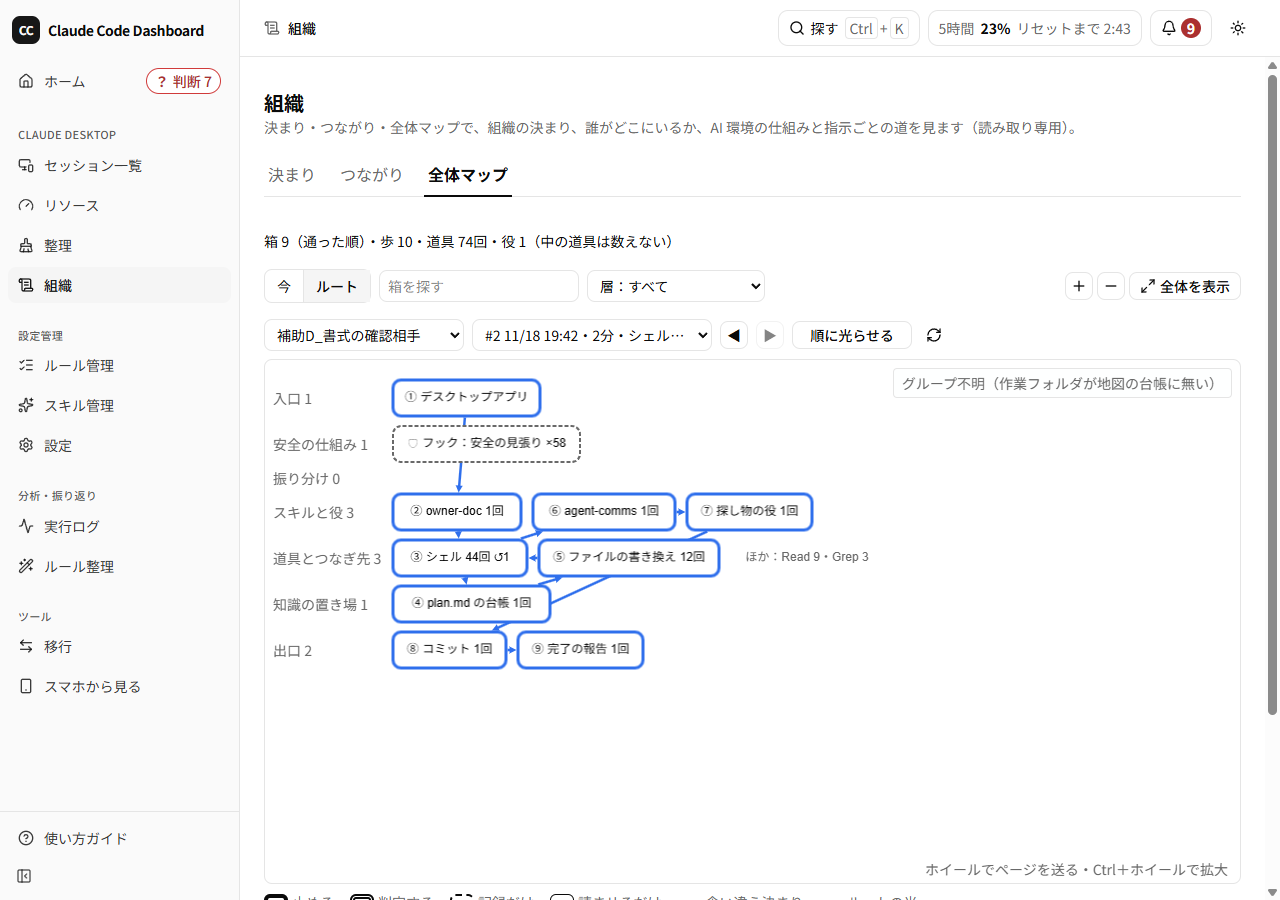
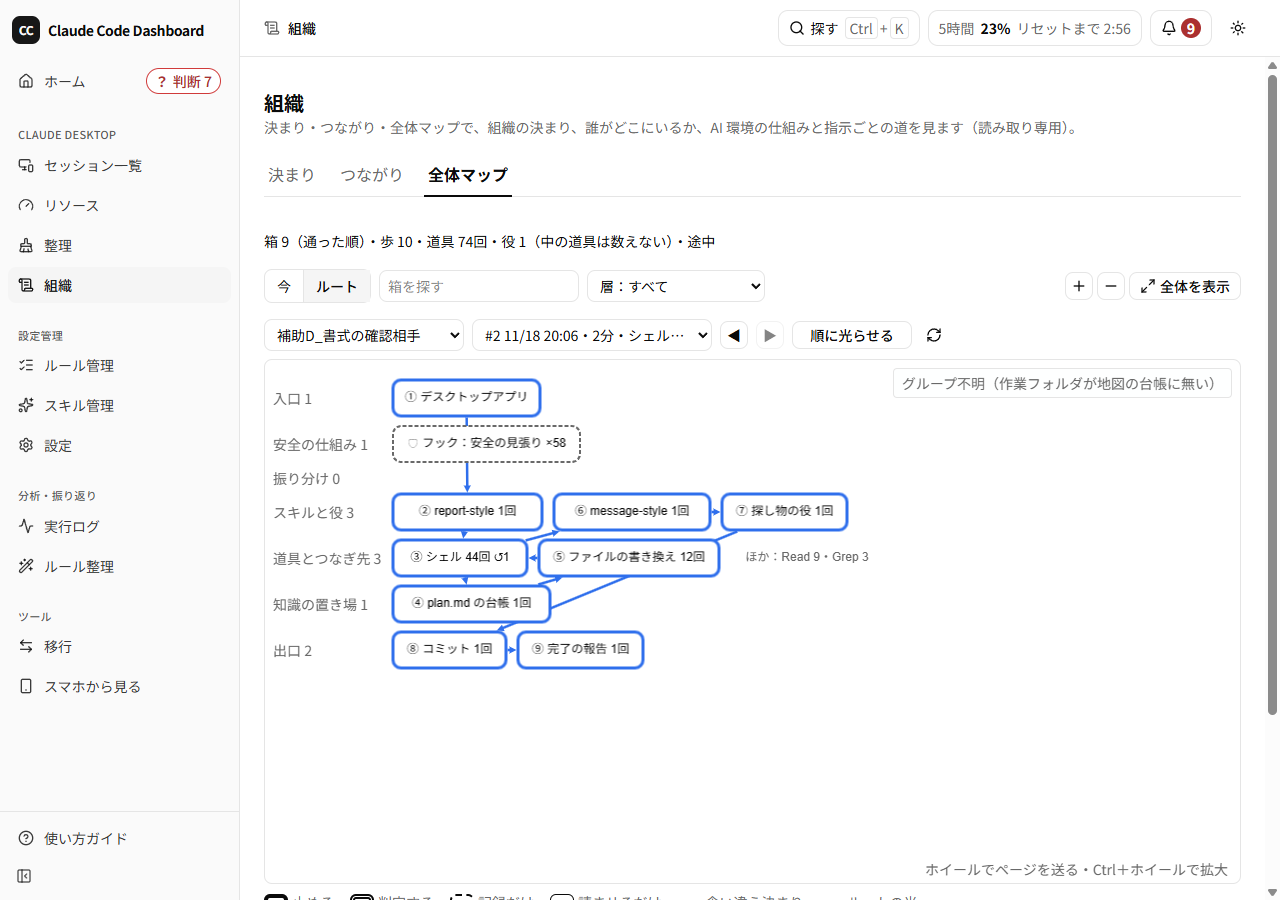
⑲ 段1：完了前の相談役の指摘を直す（作り直した後の印の当て直し・読み取りの失敗の表示・読んでいます n MB・つながり無しで一覧を開く・伸ばした地図ではページを送る・再生中のキー・伏せた id の重なり・見本の書き先の守り・一般の名前に）（指示69）

diff --git a/src/components/orgRules/EnvMapView.tsx b/src/components/orgRules/EnvMapView.tsx
@@ -173,7 +173,12 @@ function EnvMapBody({ res, map, mode, setMode, session, setSession, reload }: Bo
   const reduced = useReducedMotion()
   const sessionItem = res.sessions.find((s) => s.id === session) ?? null
 
-  const choose = (i: number) => setPick({ session, index: i })
+  const choose = (i: number) => {
+    setPick({ session, index: i })
+    setPlay(null)
+  }
+  const [openLayerId, setOpenLayerId] = useState<string | null>(null)
+  const openLayer = useCallback((layer: string) => setOpenLayerId(layer), [])
   const choosePrev = () => index > 1 && choose(index - 1)
   const chooseNext = () => index < instructions.length && choose(index + 1)
 
@@ -191,6 +196,8 @@ function EnvMapBody({ res, map, mode, setMode, session, setSession, reload }: Bo
   useEffect(() => {
     if (play === null) return
     const onKey = (e: KeyboardEvent) => {
+      const t = e.target as HTMLElement | null
+      if (t && (t.tagName === "INPUT" || t.tagName === "SELECT" || t.tagName === "TEXTAREA")) return
       if (e.key === "Escape") setPlay(null)
       else if (e.key === "ArrowRight") setPlay((p) => (p === null ? p : Math.min(visits.length, p + 1)))
       else if (e.key === "ArrowLeft") setPlay((p) => (p === null ? p : Math.max(1, p - 1)))
@@ -238,7 +245,7 @@ function EnvMapBody({ res, map, mode, setMode, session, setSession, reload }: Bo
           </button>
         )}
         {withHint ? `。${hint}` : ""}
-        {staleNote && <span className="ml-2 text-muted-foreground">作り直しは AI 環境の整備の担当が行います</span>}
+        {staleNote && <span className="ml-2 text-muted-foreground">地図は、地図を作る仕組みが作り直します</span>}
       </span>
     )
   }
@@ -323,16 +330,23 @@ function EnvMapBody({ res, map, mode, setMode, session, setSession, reload }: Bo
         </div>
       )}
       {mode === "route" && route.isLoading && (
-        <p className="py-2 text-sm text-muted-foreground">読んでいます{sessionItem ? `（${sessionItem.title}）` : ""}...</p>
+        <p className="py-2 text-sm text-muted-foreground">読んでいます{sessionItem ? `（${Math.max(0.1, Math.round(sessionItem.bytes / 1e5) / 10)} MB）` : ""}...</p>
       )}
       {mode === "route" && route.error && (
         <Alert variant="destructive">
           <AlertDescription>{(route.error as Error).message}</AlertDescription>
         </Alert>
       )}
-      {mode === "route" && route.data && !ins && <p className="py-2 text-sm">このセッションには、まだ指示がありません。</p>}
+      {mode === "route" && route.data?.problem && (
+        <Alert variant="destructive">
+          <AlertDescription>{route.data.problem}</AlertDescription>
+        </Alert>
+      )}
+      {mode === "route" && route.data && !route.data.problem && !ins && <p className="py-2 text-sm">このセッションには、まだ指示がありません。</p>}
       <MapCanvas
         note={mode === "route" && ins ? <EmptyNote ins={ins} group={route.data?.group ?? null} nodes={nodes} /> : null}
+        measureKey={`${route.isLoading}|${Boolean(route.error)}|${route.data?.problem ?? ""}|${Boolean(route.data && !ins)}`}
+        onIsolated={openLayer}
         map={map}
         mode={mode}
         ins={mode === "route" ? ins : null}
@@ -351,6 +365,7 @@ function EnvMapBody({ res, map, mode, setMode, session, setSession, reload }: Bo
         setSelected={setSelected}
         ins={mode === "route" ? ins : null}
         reload={reload}
+        openLayerId={openLayerId}
       />
     </div>
   )
@@ -506,6 +521,10 @@ function MapControls({ mode, setMode, canRoute, map, layerFilter, setLayerFilter
 interface CanvasProps {
   /** 地図の右上に重ねる文(空の状態など。縦の予算を使わない) */
   note: React.ReactNode
+  /** 地図の上の行が出入りしたときに測り直すための印 */
+  measureKey: string
+  /** 「つながり無し n」を押したとき(層の id) */
+  onIsolated: (layer: string) => void
   map: EnvMapData
   mode: Mode
   ins: RouteInstruction | null
@@ -544,7 +563,7 @@ function routeView(map: EnvMapData, ins: RouteInstruction) {
   return { data, visits, labels }
 }
 
-function MapCanvas({ note, map, mode, ins, selected, setSelected, layerFilter, play, reduced }: CanvasProps) {
+function MapCanvas({ note, measureKey, onIsolated, map, mode, ins, selected, setSelected, layerFilter, play, reduced }: CanvasProps) {
   const wrapRef = useRef<HTMLDivElement>(null)
   const boxRef = useRef<HTMLDivElement>(null)
   const cyRef = useRef<Core | null>(null)
@@ -552,7 +571,8 @@ function MapCanvas({ note, map, mode, ins, selected, setSelected, layerFilter, p
   const [height, setHeight] = useState(420)
   const [width, setWidth] = useState(720)
   const [bands, setBands] = useState<{ label: string; top: number; h: number; count: number }[]>([])
-  const [ready, setReady] = useState(false)
+  /** cytoscape を作り直した回数。選択と再生の印は、作り直すたびに当て直す(相談役 重1) */
+  const [cyVer, setCyVer] = useState(0)
   const [hover, setHover] = useState<{ label: string; x: number; y: number } | null>(null)
 
   // 地図の高さ:画面の下端−16px まで(縦の予算。A11)。ルートの詰めた表示が 1.0倍で入らなければ伸ばす(ページで送る。低A)。
@@ -573,7 +593,7 @@ function MapCanvas({ note, map, mode, ins, selected, setSelected, layerFilter, p
       ro.disconnect()
       window.removeEventListener("resize", measure)
     }
-  }, [mode, ins])
+  }, [mode, ins, measureKey])
 
   // 色はテーマから。テーマを替えたら読み直す(A19。next-themes は html の class を替える)
   const themeKey = useSyncExternalStore(subscribeTheme, themeSnapshot, () => null)
@@ -596,7 +616,8 @@ function MapCanvas({ note, map, mode, ins, selected, setSelected, layerFilter, p
     if (view.kind === "route") return true
     const byWidth = fitView(view.layout, width, Number.MAX_SAFE_INTEGER, MAP_PADDING).zoom
     const both = fitView(view.layout, width, height, MAP_PADDING).zoom
-    return byWidth >= 1 && both >= 0.85
+    // 幅は 0.97 まで許す(縦のスクロールバーの出入りで幅が少し減っても、判定が行き来しない)
+    return byWidth >= 0.97 && both >= 0.85
   }, [view, width, height])
   const mapHeight = atOne ? Math.max(height, view.layout.height + MAP_PADDING * 2) : height
 
@@ -688,17 +709,21 @@ function MapCanvas({ note, map, mode, ins, selected, setSelected, layerFilter, p
       cy.on("tap", "node", (e) => {
         const id = (e.target as { id(): string }).id()
         if (id === OTHERS_ID) return
+        if (id.startsWith(ISOLATED_PREFIX)) {
+          onIsolated(id.slice(ISOLATED_PREFIX.length))
+          return
+        }
         setSelected(id)
       })
       cy.on("tap", (e) => {
         if (e.target === cy) setSelected(null)
       })
-      setReady(true)
+      setCyVer((v) => v + 1)
     })
     return () => {
       alive = false
     }
-  }, [view, colors, map.edges, setSelected, width, mapHeight, atOne])
+  }, [view, colors, map.edges, setSelected, onIsolated, width, mapHeight, atOne])
 
   useEffect(
     () => () => {
@@ -711,7 +736,7 @@ function MapCanvas({ note, map, mode, ins, selected, setSelected, layerFilter, p
   // 選んだ箱:近傍以外の線を消し、近傍以外の箱を薄く(0.12)、1.0倍で真ん中に寄せる(A2・A21)
   useEffect(() => {
     const cy = cyRef.current
-    if (!cy || !ready || cy.destroyed()) return
+    if (!cy || cyVer === 0 || cy.destroyed()) return
     cy.batch(() => {
       cy.elements().removeClass("faded").removeClass("hidden").removeClass("picked")
       if (!selected) return
@@ -723,6 +748,10 @@ function MapCanvas({ note, map, mode, ins, selected, setSelected, layerFilter, p
       target.addClass("picked")
     })
     const target = cy.getElementById(selected ?? "")
+    if (selected && target && target.length > 0 && atOne && cy.zoom() >= 1) {
+      scrollToMapY(boxRef.current, target.position().y * cy.zoom() + cy.pan().y)
+      return
+    }
     if (selected && target && target.length > 0) {
       const p = target.position()
       const z = Math.max(1, cy.zoom())
@@ -732,12 +761,12 @@ function MapCanvas({ note, map, mode, ins, selected, setSelected, layerFilter, p
         cy.pan(pan)
       } else cy.animate({ zoom: z, pan, duration: 250 })
     }
-  }, [selected, ready, reduced, view])
+  }, [selected, cyVer, reduced, view, atOne])
 
   // 再生の光(初めて通った順)
   useEffect(() => {
     const cy = cyRef.current
-    if (!cy || !ready || cy.destroyed() || view.kind !== "route" || !view.ins) return
+    if (!cy || cyVer === 0 || cy.destroyed() || view.kind !== "route" || !view.ins) return
     cy.batch(() => {
       cy.nodes().removeClass("current").removeClass("dim")
       if (play === null) return
@@ -749,7 +778,7 @@ function MapCanvas({ note, map, mode, ins, selected, setSelected, layerFilter, p
         else if (i + 1 > play) el.addClass("dim")
       })
     })
-  }, [play, ready, view])
+  }, [play, cyVer, view])
 
   // 拡大:Ctrl＋ホイール(passive:false で画面全体の拡大より先に受ける。軽13)・＋／− キー・ボタン
   useEffect(() => {
@@ -820,6 +849,18 @@ function MapCanvas({ note, map, mode, ins, selected, setSelected, layerFilter, p
       <p className="pointer-events-none absolute bottom-1 right-2 rounded bg-background/85 px-1 text-sm text-muted-foreground">ホイールでページを送る・Ctrl＋ホイールで拡大</p>
     </div>
   )
+}
+
+/** 地図の中の y(画面の px)が見える所まで、ページ(いちばん近い縦にスクロールする親)を送る */
+function scrollToMapY(box: HTMLElement | null, y: number): void {
+  if (!box) return
+  let el: HTMLElement | null = box.parentElement
+  while (el && !/(auto|scroll)/.test(getComputedStyle(el).overflowY)) el = el.parentElement
+  const scroller: HTMLElement = el ?? document.scrollingElement as HTMLElement
+  const r = box.getBoundingClientRect()
+  const view = el ? el.getBoundingClientRect() : { top: 0, bottom: window.innerHeight }
+  const abs = r.top + y
+  if (abs < view.top + 40 || abs > view.bottom - 40) scroller.scrollBy({ top: abs - (view.top + view.bottom) / 2 })
 }
 
 function subscribeTheme(cb: () => void): () => void {
@@ -908,10 +949,18 @@ interface PanelProps {
   setSelected: (id: string | null) => void
   ins: RouteInstruction | null
   reload: () => void
+  /** 「つながり無し n」を押したときに開く層 */
+  openLayerId: string | null
 }
 
-function DetailPanel({ map, nodes, layerLabel, selected, setSelected, ins, reload }: PanelProps) {
+function DetailPanel({ map, nodes, layerLabel, selected, setSelected, ins, reload, openLayerId }: PanelProps) {
   const [allSteps, setAllSteps] = useState(false)
+  const listRef = useRef<HTMLDetailsElement>(null)
+  useEffect(() => {
+    if (!openLayerId || !listRef.current) return
+    listRef.current.open = true
+    document.getElementById(`env-map-layer-${openLayerId}`)?.scrollIntoView({ block: "start" })
+  }, [openLayerId])
   const sel = selected ? nodes.get(selected) : null
   const links = useMemo(() => {
     if (!sel) return []
@@ -970,11 +1019,11 @@ function DetailPanel({ map, nodes, layerLabel, selected, setSelected, ins, reloa
           )}
         </section>
       )}
-      <details>
+      <details ref={listRef}>
         <summary className="cursor-pointer">一覧で見る（層ごと。キーボードと読み上げ用）</summary>
         <div className="mt-2 space-y-2">
           {map.layers.map((l) => (
-            <div key={l.id}>
+            <div key={l.id} id={`env-map-layer-${l.id}`}>
               <h4 className="font-medium">
                 {l.label}（{map.nodes.filter((n) => n.layer === l.id).length}）
               </h4>

diff --git a/src/lib/envMap/routeRules.test.ts b/src/lib/envMap/routeRules.test.ts
@@ -12,8 +12,8 @@ function index(): MapIndex {
     "task:daily-check",
     GUARD_BOX,
     "group:■試験",
-    "skill:owner-doc",
-    "agent:haiku-explorer",
+    "skill:report-style",
+    "agent:search-helper",
     "mcp:notebooklm-mcp",
     "tool:browser",
     "tool:plugins",
@@ -63,10 +63,10 @@ describe("[A5] 規則3〜12 の写し", () => {
     expect(box("Bash", { command: "git -C /c/x commit -m test" })).toBe("out:commit")
     expect(box("SendMessage", { message: "[完了] 済み" })).toBe("out:report")
     expect(box("SendMessage", { message: "[報告] 途中" })).toBe("tool:cc-comms") // 10
-    expect(box("Skill", { skill: "owner-doc" })).toBe("skill:owner-doc") // 3
+    expect(box("Skill", { skill: "report-style" })).toBe("skill:report-style") // 3
     expect(box("Skill", { skill: "anthropic-skills:pdf" })).toBe("tool:plugins")
     expect(box("Skill", { skill: "unknown" })).toBe("ほか:Skill")
-    expect(box("Agent", { subagent_type: "haiku-explorer" })).toBe("agent:haiku-explorer") // 4
+    expect(box("Agent", { subagent_type: "search-helper" })).toBe("agent:search-helper") // 4
     expect(box("Agent", { subagent_type: "general-purpose" })).toBe("ほか:Agent")
     expect(box("mcp__notebooklm-mcp__notebook_list")).toBe("mcp:notebooklm-mcp") // 5
     expect(box("mcp__Claude_Browser__navigate")).toBe("tool:browser")
@@ -76,7 +76,7 @@ describe("[A5] 規則3〜12 の写し", () => {
     expect(box("PowerShell", { command: "ls" })).toBe("tool:cc-shell")
     expect(box("mcp__terminal__run_in_terminal")).toBe("tool:cc-shell")
     expect(box("mcp__terminal__read_terminal")).toBe("ほか:mcp__terminal__read_terminal")
-    expect(box("Skill", { command: "owner-doc" })).toBe("skill:owner-doc")
+    expect(box("Skill", { command: "report-style" })).toBe("skill:report-style")
     expect(box("Edit", { file_path: "C:\\else\\a.ts" })).toBe("tool:cc-edit")
     expect(box("WebFetch")).toBe("tool:cc-web")
     expect(box("mcp__ccd_session__start_session")).toBe("tool:cc-comms")
@@ -193,10 +193,10 @@ describe("[A6] 指示の区切り", () => {
 
   it("サブエージェントの行(isSidechain)は読まない [A5d]", () => {
     const side = JSON.stringify({ type: "assistant", isSidechain: true, timestamp: ts(), message: { content: [{ type: "tool_use", name: "Bash", input: {} }] } })
-    const r = run([human("x"), tool("Agent", { subagent_type: "haiku-explorer", prompt: MARK }), side])
+    const r = run([human("x"), tool("Agent", { subagent_type: "search-helper", prompt: MARK }), side])
     expect(r[0].calls).toBe(1)
     expect(r[0].agents).toBe(1)
-    expect(r[0].steps.map((s) => s.box)).toContain("agent:haiku-explorer")
+    expect(r[0].steps.map((s) => s.box)).toContain("agent:search-helper")
   })
 
   it("startsInstruction は人の入力の行だけ", () => {

diff --git a/src/lib/envMap/envMapService.ts b/src/lib/envMap/envMapService.ts
@@ -129,13 +129,23 @@ export class EnvMapService {
 
   async get(): Promise<EnvMapResponse> {
     const [map, sources] = await Promise.all([this.loadMap(), this.recentSources()])
-    const sessions: EnvMapSessionItem[] = sources.map((s) => ({
-      id: s.summary.id,
-      title: s.summary.title,
-      lastActivityAt: s.summary.lastActivityAt,
-      archived: s.summary.isArchived,
-      running: s.summary.status === "running",
-    }))
+    const sizeOf = async (p: string) => {
+      try {
+        return (await fs.stat(p)).size
+      } catch {
+        return 0
+      }
+    }
+    const sessions: EnvMapSessionItem[] = await Promise.all(
+      sources.map(async (s) => ({
+        id: s.summary.id,
+        title: s.summary.title,
+        lastActivityAt: s.summary.lastActivityAt,
+        archived: s.summary.isArchived,
+        running: s.summary.status === "running",
+        bytes: (await Promise.all(s.transcriptPaths.map(sizeOf))).reduce((a, b) => a + b, 0),
+      }))
+    )
     return {
       generatedAt: this.now(),
       map: isProblem(map) ? null : map.data,
@@ -180,7 +190,7 @@ export class EnvMapService {
     const running = src.summary.status === "running"
     const entry = entryOf(src.taskId, map.index)
     const group = groupOf(src.summary.title, src.summary.cwd, map.index, this.home)
-    const key = [this.mapCache?.mtimeMs ?? 0, entry, group ?? ""].join("\n")
+    const key = [this.mapCache?.path ?? "", this.mapCache?.size ?? 0, this.mapCache?.mtimeMs ?? 0, entry, group ?? ""].join("\n")
     const prev = this.routes.get(sessionId)
     let problem: string | null = null
     let state: RouteReadState

diff --git a/src/lib/envMap/mapData.ts b/src/lib/envMap/mapData.ts
@@ -160,8 +160,20 @@ export function parseMap(raw: unknown, home: string, now: number): ParsedMap | E
     degree.set(dst, (degree.get(dst) ?? 0) + 1)
   }
   for (const n of nodes) n.degree = degree.get(n.id) ?? 0
-  // 応答の id も伏せる(rule: の箱は id が丸ごとパスのことがある)。線の両端も同じ写しにする
-  const idMap = new Map(nodes.map((n) => [n.id, maskUserPath(n.id)]))
+  // 応答の id も伏せる(rule: の箱は id が丸ごとパスのことがある)。線の両端も同じ写しにする。
+  // 伏せた後に重なった id(別の利用者の同じ名前のフォルダなど)は、後の箱と、その箱の線を落とす(cytoscape は同じ id で描けない)
+  const idMap = new Map<string, string>()
+  const taken = new Set<string>()
+  for (const n of nodes) {
+    const masked = maskUserPath(n.id)
+    if (taken.has(masked)) continue
+    taken.add(masked)
+    idMap.set(n.id, masked)
+  }
+  for (let i = nodes.length - 1; i >= 0; i--) if (!idMap.has(nodes[i].id)) nodes.splice(i, 1)
+  for (let i = edges.length - 1; i >= 0; i--) if (!idMap.has(edges[i].src) || !idMap.has(edges[i].dst)) edges.splice(i, 1)
+  for (let i = places.length - 1; i >= 0; i--) if (!idMap.has(places[i].id)) places.splice(i, 1)
+  for (let i = groups.length - 1; i >= 0; i--) if (!idMap.has(groups[i].group)) groups.splice(i, 1)
   for (const n of nodes) n.id = idMap.get(n.id) ?? n.id
   for (const e of edges) {
     e.src = idMap.get(e.src) ?? e.src

diff --git a/src/lib/envMap/mapData.test.ts b/src/lib/envMap/mapData.test.ts
@@ -77,6 +77,18 @@ describe("[6章] 個人のフォルダの名前を伏せる", () => {
     const text = JSON.stringify(parsed(raw).data)
     expect(text).not.toContain("someone")
   })
+  it("伏せた後に id が重なったら、後の箱と線を落とす(描けなくならない)", () => {
+    const raw = syntheticMap()
+    const nodes = raw.nodes as Record<string, unknown>[]
+    nodes[0] = { ...nodes[0], id: "rule:C:\\Users\\a\\x" }
+    nodes[7] = { ...nodes[7], id: "rule:C:\\Users\\b\\x" }
+    ;(raw.edges as Record<string, unknown>[]).push({ src: "rule:C:\\Users\\b\\x", dst: "safety:n1", kind: "mention" })
+    const { data } = parsed(raw)
+    const ids = data.nodes.map((n) => n.id)
+    expect(new Set(ids).size).toBe(ids.length)
+    expect(ids.filter((i) => i === "rule:~\\x")).toHaveLength(1)
+    for (const e of data.edges) expect(ids).toContain(e.src)
+  })
 })
 
 describe("[A5c] パスの正規化", () => {

diff --git a/src/lib/envMap/envMapTypes.ts b/src/lib/envMap/envMapTypes.ts
@@ -66,6 +66,8 @@ export interface EnvMapSessionItem {
   lastActivityAt: number | null
   archived: boolean
   running: boolean
+  /** 会話記録の大きさの合計(バイト。読んでいる間の「読んでいます(n MB)」に使う) */
+  bytes: number
 }
 
 export interface EnvMapResponse {
